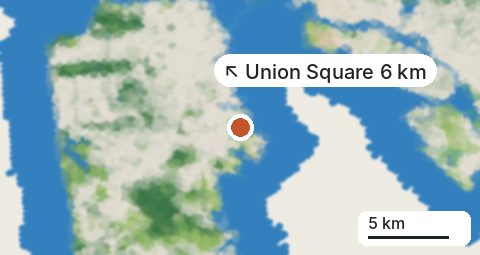
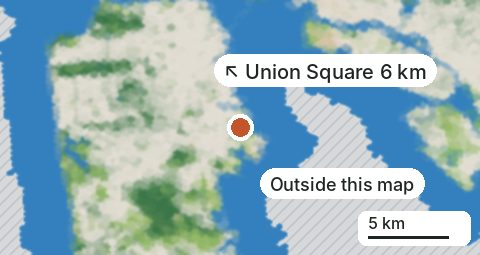
Locator maps: hatch and label land beyond the study area as 'Outside this map'
Claude-Session: https://claude.ai/code/session_01Qm3FDSMJAEC2Qk6LsnPen6

diff --git a/pipeline/project_thumbs.py b/pipeline/project_thumbs.py
@@ -2,11 +2,13 @@
 Used until a credited photo is added (projects.json: "photo": {"src", "credit", "date"}).
 Usage: python3 -I pipeline/project_thumbs.py  -> assets/img/pj/<id>.jpg"""
 import json, math, os
+import numpy as np
+from scipy import ndimage
 from PIL import Image, ImageDraw, ImageFilter, ImageFont
 ROOT = os.path.join(os.path.dirname(os.path.abspath(__file__)), '..')
 OUT = os.path.join(ROOT, 'assets', 'img', 'pj'); os.makedirs(OUT, exist_ok=True)
 FD = '/usr/share/fonts/opentype/inter/'
-F1 = ImageFont.truetype(FD + 'Inter-SemiBold.otf', 23); F2 = ImageFont.truetype(FD + 'Inter-Medium.otf', 20)
+F1 = ImageFont.truetype(FD + 'Inter-SemiBold.otf', 23); F2 = ImageFont.truetype(FD + 'Inter-Medium.otf', 20); F3 = ImageFont.truetype(FD + 'Inter-Medium.otf', 18)
 # Built land is kept pale so parks, farmland and water stand out
 COL = {'built': (226, 221, 211), 'tree': (58, 118, 72), 'shrub': (120, 150, 92), 'grass': (150, 186, 104), 'crop': (222, 202, 120), 'bare': (214, 196, 166), 'water': (52, 128, 190), 'wetland': (78, 156, 156)}
 W, H, SPAN_KM = 480, 255, 30
@@ -41,6 +43,7 @@ for p in json.load(open(os.path.join(ROOT, 'data', 'projects.json')))['projects'
     d = cache[p['place']]; c = d['cells']; kx = math.cos(math.radians(p['lat'])); s = W / SPAN_KM
     xy = lambda la, ln: (W / 2 + (ln - p['lng']) * 111.32 * kx * s, H / 2 - (la - p['lat']) * 110.57 * s)
     BUSY.clear(); im = Image.new('RGB', (W, H), (238, 235, 227)); dr = ImageDraw.Draw(im)
+    cov = Image.new('L', (W, H), 0); dc = ImageDraw.Draw(cov)
     r = math.sqrt(2 * float(d.get('hex_km2') or 1) / (3 * math.sqrt(3))) * s * 1.15
     for i in range(len(c['lat'])):
         x, y = xy(c['lat'][i], c['lng'][i])
@@ -48,8 +51,20 @@ for p in json.load(open(os.path.join(ROOT, 'data', 'projects.json')))['projects'
         mix, tot = [0, 0, 0], 0
         for k, col in COL.items():
             v = float(c[k][i] or 0) * (1.6 if k in ('water', 'wetland') else 1.2 if k == 'tree' else 1); tot += v; mix = [m + v * cc for m, cc in zip(mix, col)]
-        if tot > 0: dr.polygon([(x + r * math.cos(math.radians(60 * k + 30)), y + r * math.sin(math.radians(60 * k + 30))) for k in range(6)], fill=tuple(int(m / tot) for m in mix))
-    im = im.filter(ImageFilter.GaussianBlur(1.2)); dr = ImageDraw.Draw(im)
+        hexp = [(x + r * math.cos(math.radians(60 * k + 30)), y + r * math.sin(math.radians(60 * k + 30))) for k in range(6)]
+        dc.polygon(hexp, fill=255)
+        if tot > 0: dr.polygon(hexp, fill=tuple(int(m / tot) for m in mix))
+    im = im.filter(ImageFilter.GaussianBlur(1.2))
+    # Beyond the study boundary: hatched grey, so it reads as outside the map rather than as land with no detail
+    out = np.asarray(cov) < 128; OUTLAB = None
+    if out.mean() > 0.04:
+        hat = Image.new('RGB', (W, H), (214, 216, 218)); dh = ImageDraw.Draw(hat)
+        for k in range(-H, W, 12): dh.line([(k, H), (k + H, 0)], fill=(196, 199, 203), width=2)
+        im.paste(hat, (0, 0), Image.fromarray((out * 255).astype('uint8')).filter(ImageFilter.GaussianBlur(0.8)))
+        dist = ndimage.distance_transform_edt(out); dist[:TOP + 10, :] = 0; dist[H - 50:, W - 150:] = 0
+        yy, xx = np.unravel_index(np.argmax(dist), dist.shape)
+        if dist[yy, xx] > 18: OUTLAB = (int(xx), int(yy))
+    dr = ImageDraw.Draw(im)
     # Project footprint (if known) and pin
     a = p.get('area_km2') or 0; rr = max(0, min(130, math.sqrt(a / math.pi) * s)) if a else 0
     if rr > 14:
@@ -74,6 +89,8 @@ for p in json.load(open(os.path.join(ROOT, 'data', 'projects.json')))['projects'
             place(dr, [(ex + 22, ey - 16, 'l'), (ex - 22, ey - 16, 'r'), (ex + 14, ey - 50, 'l'), (ex - 14, ey - 50, 'r'), (ex + 14, ey + 14, 'l'), (ex - 14, ey + 14, 'r'), (8, ey - 16, 'l'), (W - 8, ey - 16, 'r'), (W / 2, ey - 50, 'c')], txt, F2)
     lab = short(p.get('area')); off = (min(rr, 60) * 0.7 if rr > 14 else 0) + 20
     if lab: place(dr, [(W/2 + off, H/2 - 17, 'l'), (W/2 - off, H/2 - 17, 'r'), (W/2, H/2 + 18, 'c'), (W/2, H/2 - 52, 'c'), (W/2 + off, H/2 + 10, 'l'), (W/2 - off, H/2 + 10, 'r'), (W/2 + off, H/2 - 44, 'l'), (W/2 - off, H/2 - 44, 'r')], lab, F1)
+    if OUTLAB:
+        ox, oy = OUTLAB; place(dr, [(ox, oy - 16, 'c'), (ox, oy - 36, 'c'), (ox, oy + 4, 'c'), (ox - 20, oy - 16, 'r'), (ox + 20, oy - 16, 'l')], 'Outside this map', F3)
     # Scale
     X0 = W - 32 - L; dr.rounded_rectangle([X0 - 10, H - 44, W - 10, H - 10], radius=8, fill=(255, 255, 255))
     dr.line([X0, H - 18, X0 + L, H - 18], fill=INK, width=3); dr.text((X0, H - 42), '5 km', font=ImageFont.truetype(FD + 'Inter-Medium.otf', 16), fill=INK)
